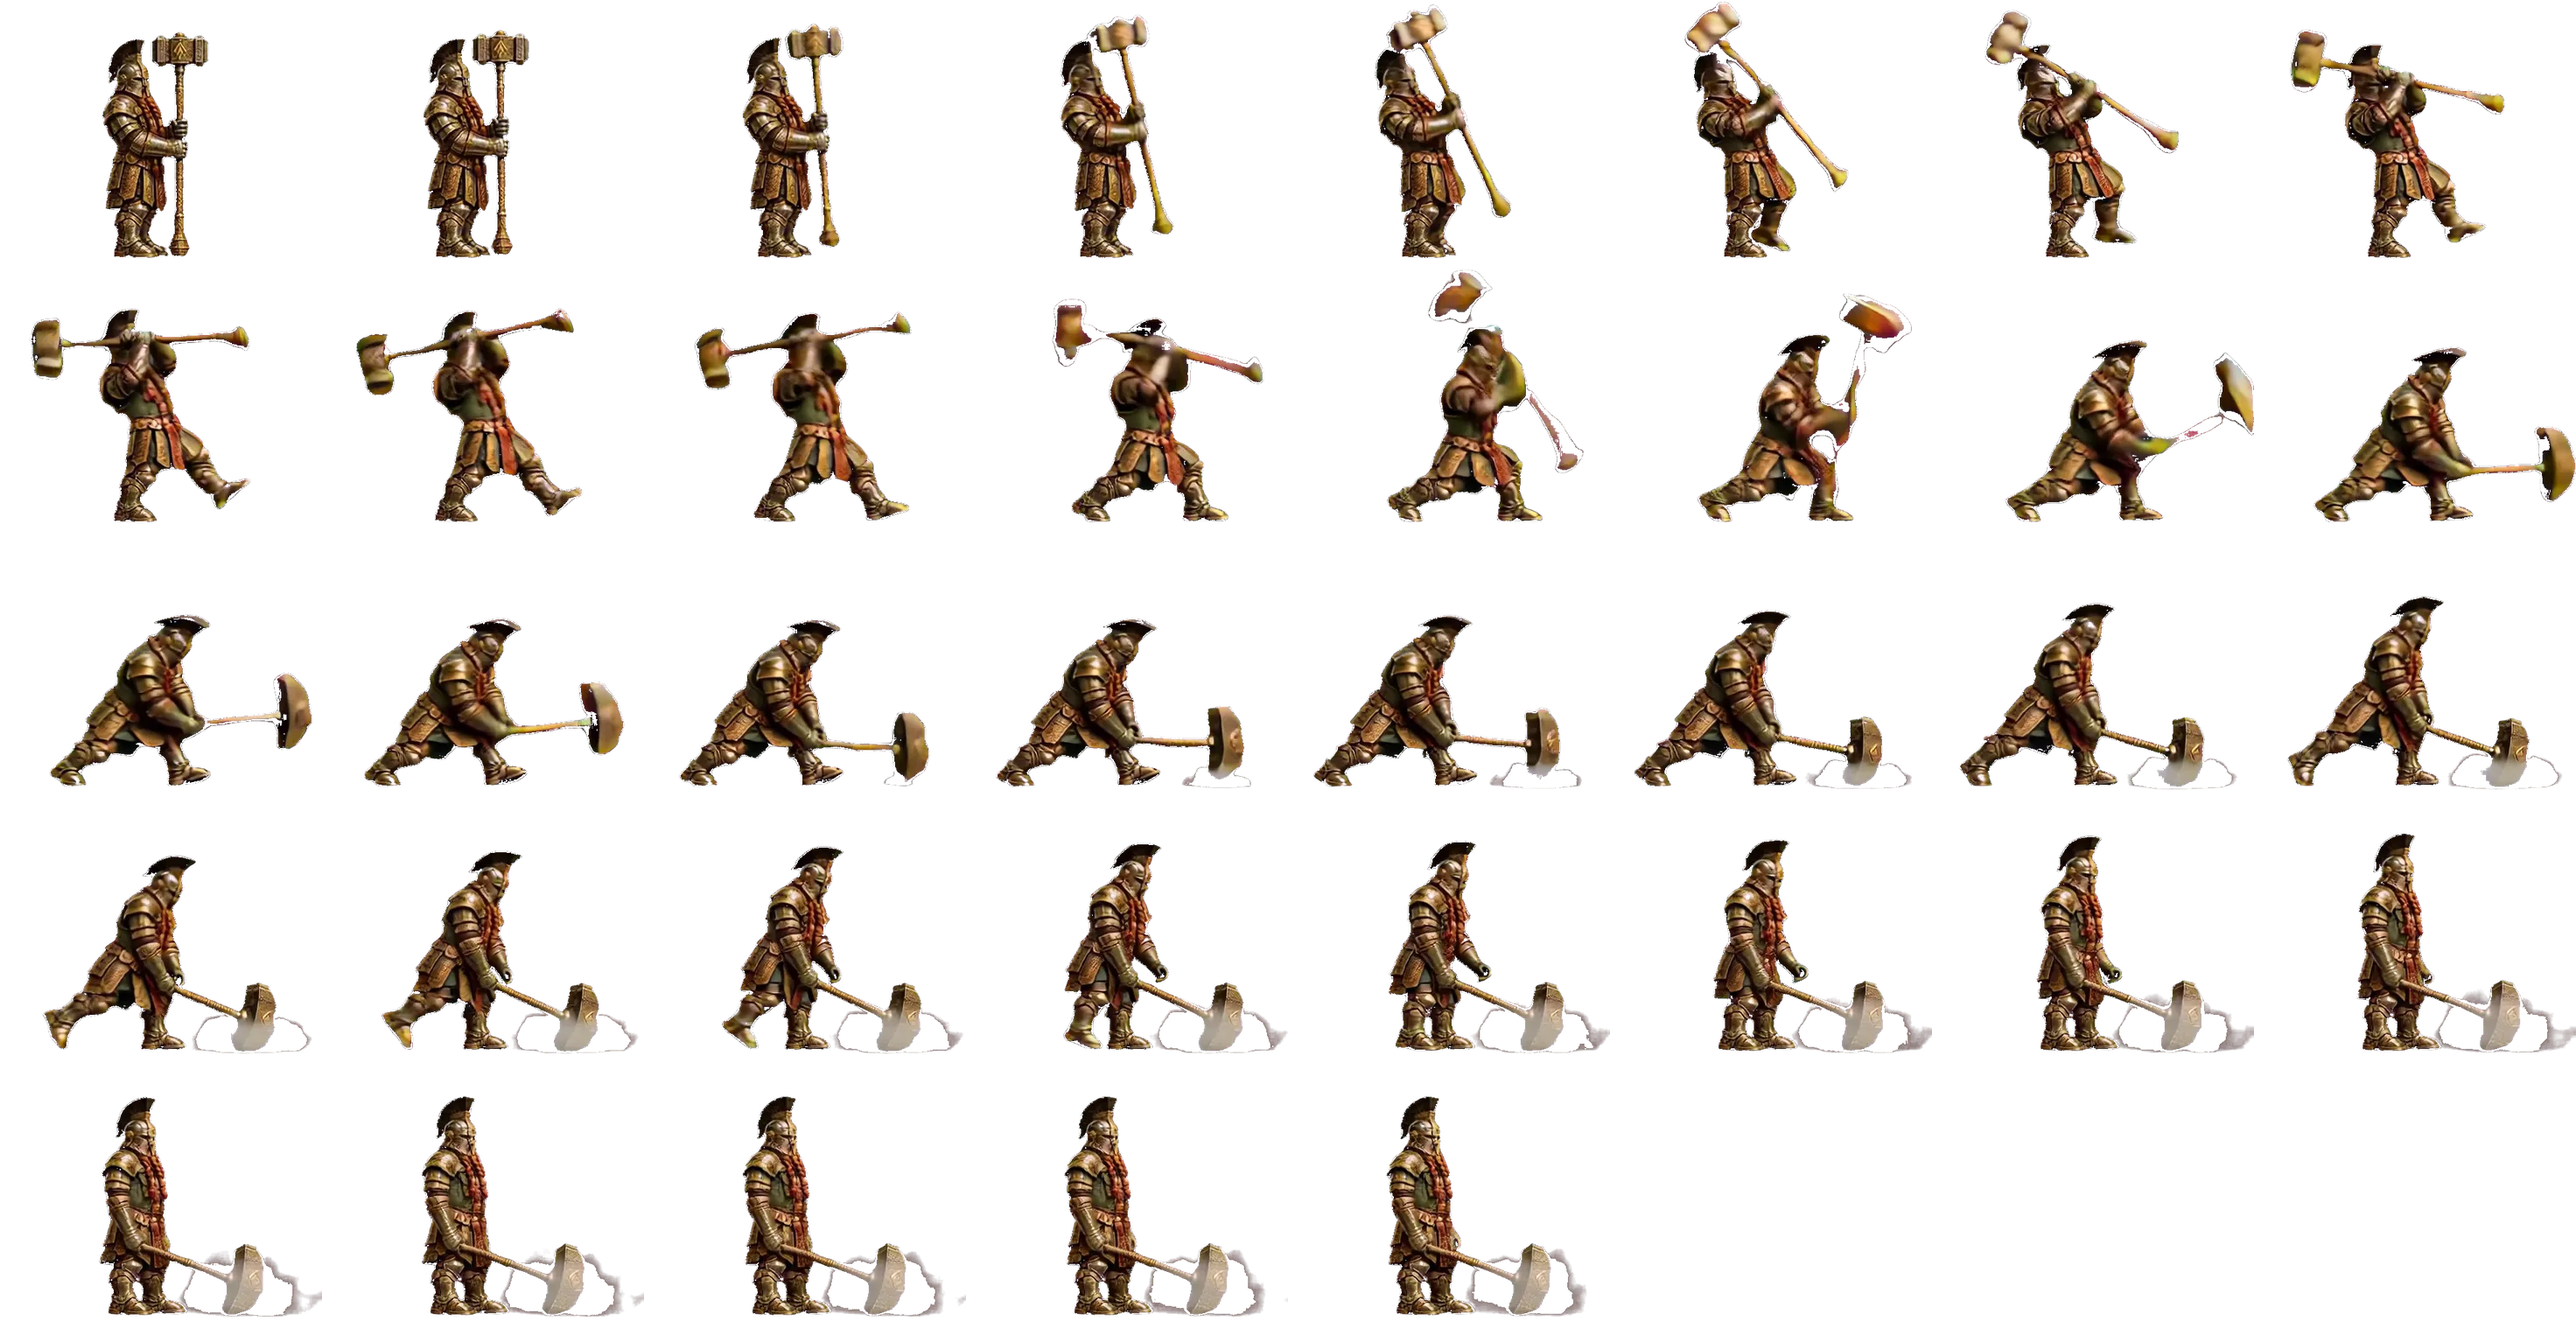
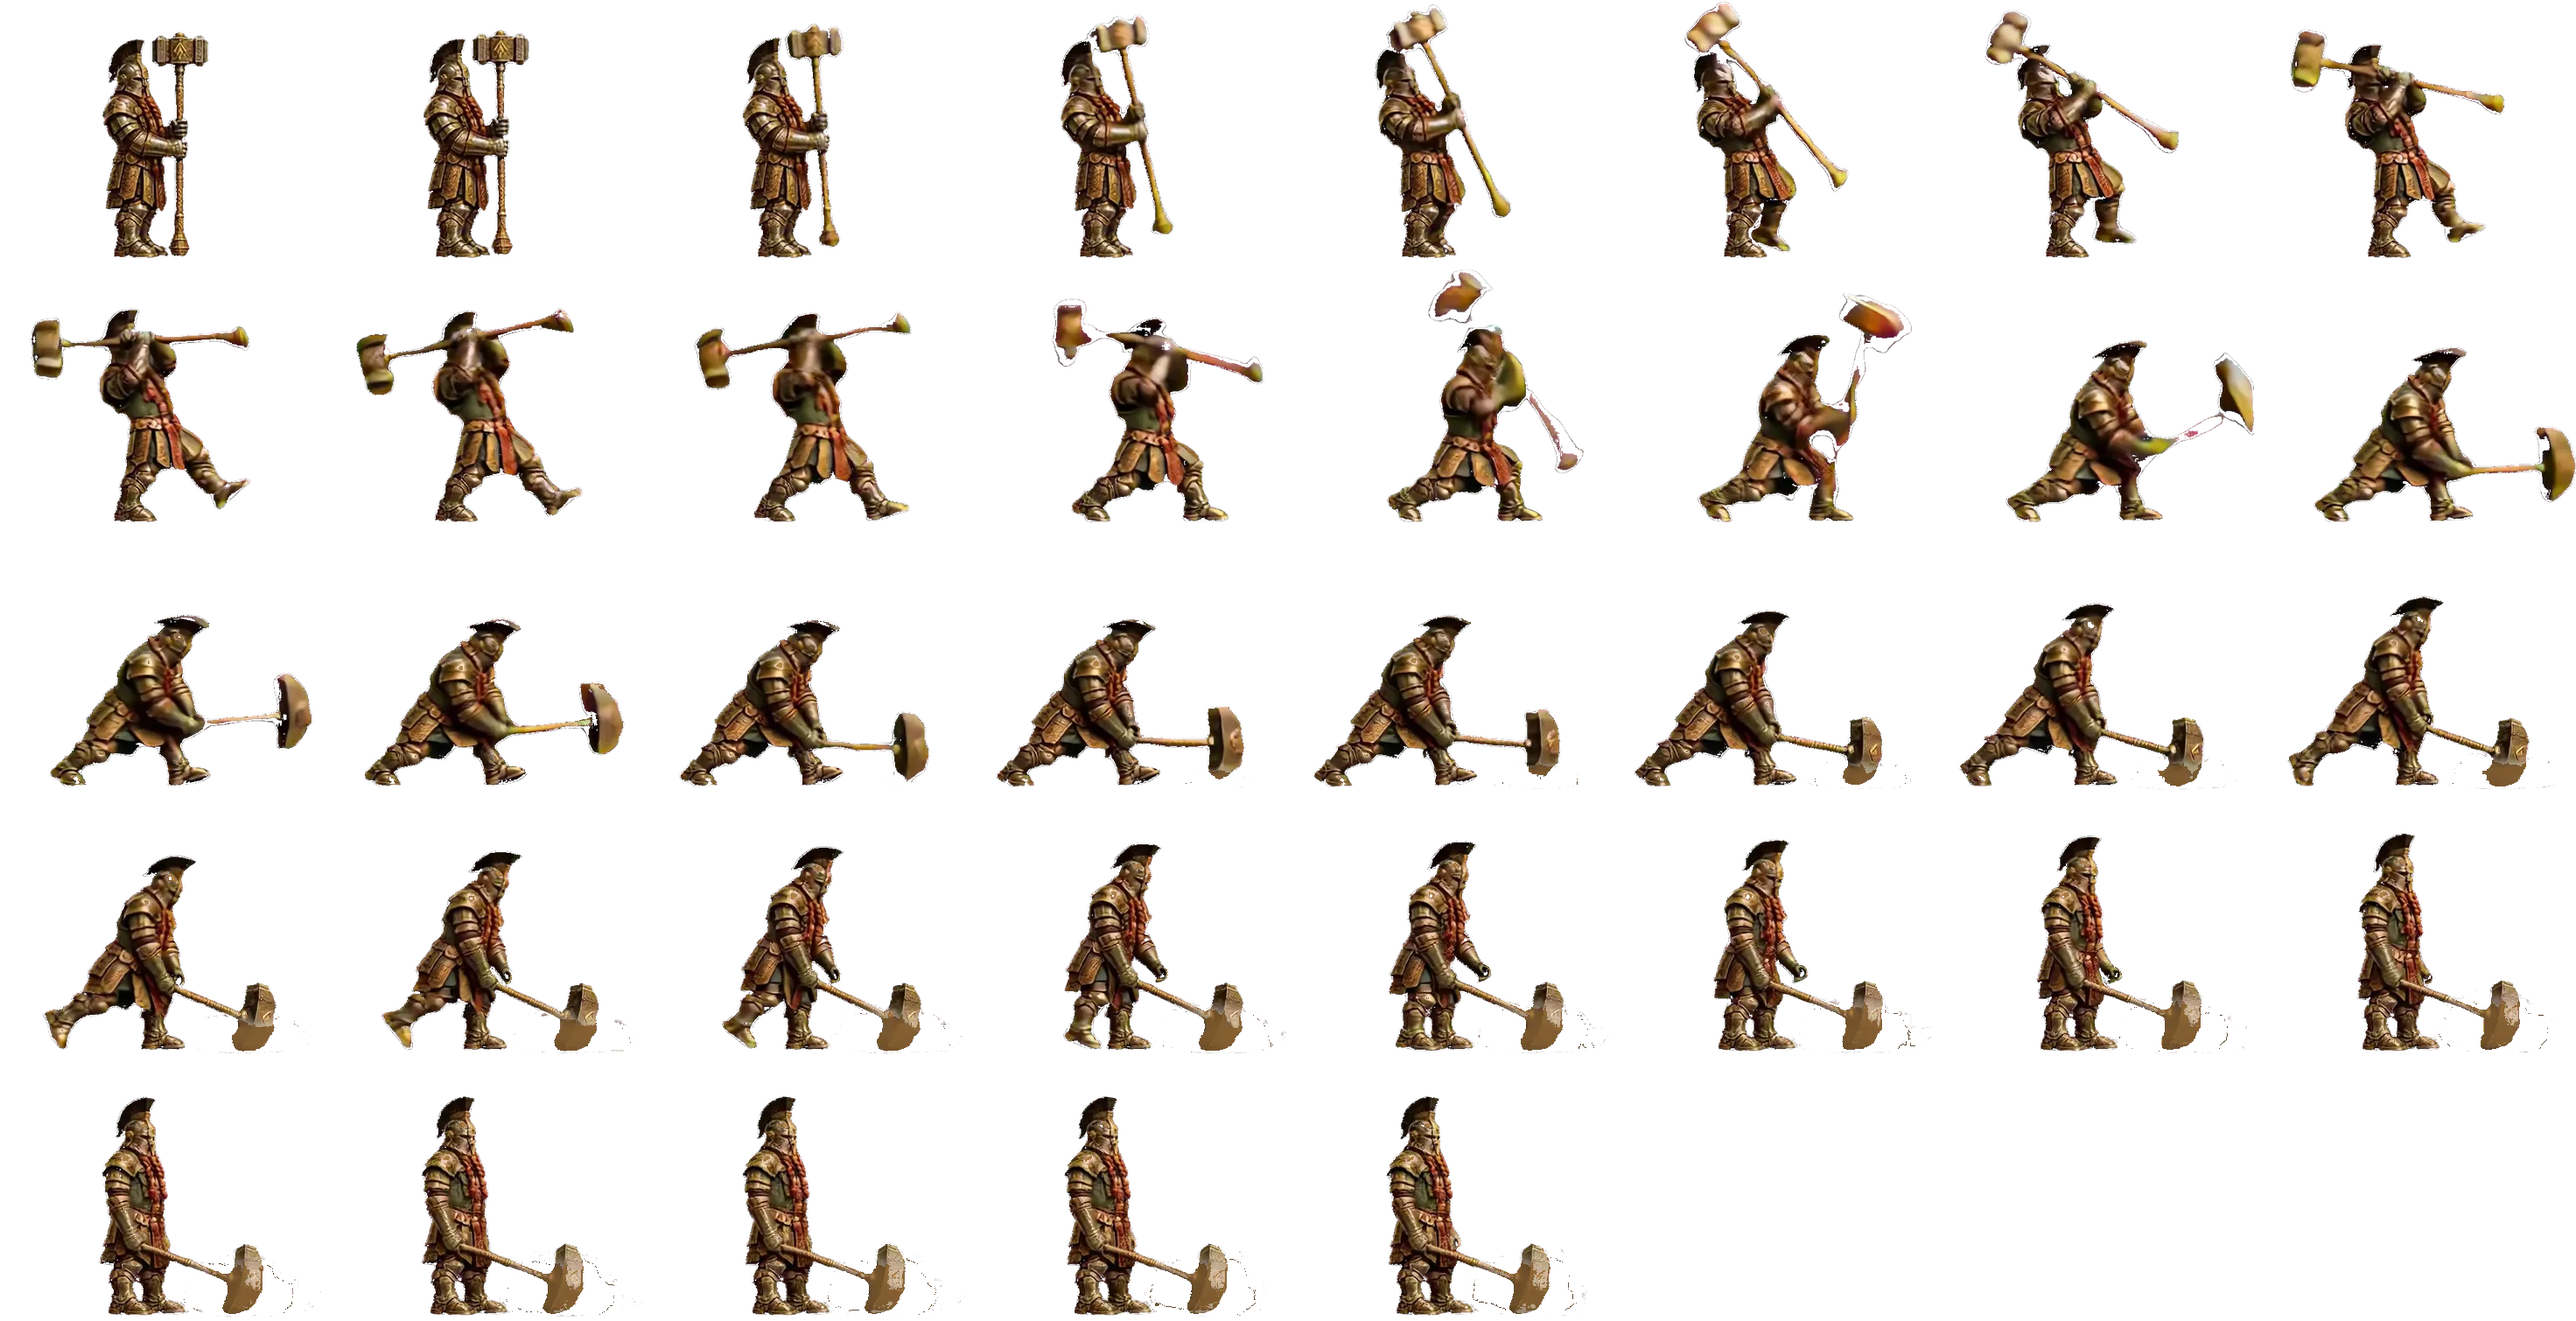
Hammer Guard attack: white glare on the hammer tinted to bronze, dust ring removed (local post-processing, 0 CU)

diff --git a/src/i18n/en/changelog.ts b/src/i18n/en/changelog.ts
@@ -4,6 +4,7 @@ import { register } from '../translate';
 
 // In preparation
 register({
+  "Gwardia Młota: z ataku zniknął biały błysk na młocie i pył po uderzeniu.": "Hammer Guard: the white glare on the hammer and the dust after the blow are gone from the attack.",
   "Żelazny Klan: trafienia Tana, Matki Run, Kreta z Brązu, Niedźwiedzia w Zbroi, Wartownika, Pogromcy Olbrzymów, Gwardii Młota i Kowala Bitewnego to teraz płynne odchylenie od ciosu z przodu i powrót do postawy (bez drgającej, migoczącej sylwetki); wolniejsza śmierć Tarczownika i trafienie Skarbnika, szybsza śmierć Kowala.": "Iron Clan: the hits of Ironbeard the Thane, the Rune Matron, the Bronze Mole, the Armoured Bear, the Bronze Sentinel, the Giant Slayer, the Hammer Guard and the Battle Smith are now a smooth lean back from a blow in front and a return to the stance (no shaking, flickering figure); slower Dwarven Shieldbearer death and Skarbnik hit, faster Battle Smith death.",
   "Kryształowe Drzewo stoi na mapie tylko w celu „Kryształy do Drzewa”. W Punktach kontrolnych, Bossie, Artefakcie, Przetrwaniu, Podboju i Relikcie jego pole jest zwykłym terenem, a w Kontroli, Bossie i Artefakcie punkt środkowy, legowisko Bossa i Artefakt stoją dokładnie w środku mapy (wcześniej obok Drzewa, więc na mapie były dwa „środki”).": "The Crystal Tree stands on the map only in the goal “Crystals to the Tree”. In Control Points, Boss, Artifact, Survival, Conquest and Relic its hex is ordinary ground, and in Control, Boss and Artifact the middle point, the Boss's lair and the Artifact stand exactly in the middle of the map (before, next to the Tree, so the map had two “middles”).",
   "Ikony zdolności Dzikiego Stada, Żelaznego Klanu i Bractwa Przypływu są teraz malowane i kolorowe, w stylu ikon Przymierza i Hordy (42 nowe ikony zamiast jednokolorowych symboli).": "The ability icons of the Wild Herd, the Iron Clan and the Tide Brotherhood are now painted and colourful, in the style of the Covenant and Horde icons (42 new icons instead of single-colour symbols).",

diff --git a/scripts/assets/clans_dust_fix.py b/scripts/assets/clans_dust_fix.py
@@ -1,0 +1,37 @@
+"""Hammer Guard attack: the clip ends with a white glare on the hammer head and a grey dust ring; tint the glare to bronze and drop the dust.
+
+Usage: python3 scripts/assets/clans_dust_fix.py <sheet.webp in> <anim.json> <out.webp> [first frame=16]
+Only pixels that are bright and nearly colourless change: the bronze armour is saturated and stays as it is.
+"""
+import colorsys
+import json
+import sys
+
+from PIL import Image
+
+src, meta, out = sys.argv[1:4]
+first = int(sys.argv[4]) if len(sys.argv) > 4 else 16
+m = json.load(open(meta))
+fw, fh = m['frame']
+cols = m['cols']
+n = m['clips']['atak']
+im = Image.open(src).convert('RGBA')
+px = im.load()
+BRONZE = (0.09, 0.62)  # hue, saturation of the hammer head
+for i in range(first, n):
+    x0, y0 = (i % cols) * fw, (i // cols) * fh
+    for y in range(y0, y0 + fh):
+        for x in range(x0, x0 + fw):
+            r, g, b, a = px[x, y]
+            if a == 0:
+                continue
+            h, s, v = colorsys.rgb_to_hsv(r / 255, g / 255, b / 255)
+            if s < 0.22 and v > 0.45:
+                if a < 235:  # dust: translucent grey
+                    px[x, y] = (r, g, b, 0)
+                else:  # glare on the hammer: bronze of the same lightness, a bit darker
+                    rr, gg, bb = colorsys.hsv_to_rgb(BRONZE[0], BRONZE[1], v * 0.72)
+                    px[x, y] = (int(rr * 255), int(gg * 255), int(bb * 255), a)
+            elif s < 0.22 and a < 200 and v > 0.25:  # thin grey smoke edge
+                px[x, y] = (r, g, b, 0)
+im.save(out, 'WEBP', quality=80, method=6)

diff --git a/CHANGELOG.md b/CHANGELOG.md
@@ -6,6 +6,7 @@ Każdy wpis to jeden commit, a skrót commita stoi w nawiasie na końcu wpisu (c
 
 ## W przygotowaniu
 
+- Gwardia Młota: z ataku zniknął biały błysk na młocie i pył po uderzeniu.
 - Żelazny Klan: trafienia Tana, Matki Run, Kreta z Brązu, Niedźwiedzia w Zbroi, Wartownika, Pogromcy Olbrzymów, Gwardii Młota i Kowala Bitewnego to teraz płynne odchylenie od ciosu z przodu i powrót do postawy (bez drgającej, migoczącej sylwetki); wolniejsza śmierć Tarczownika i trafienie Skarbnika, szybsza śmierć Kowala.
 - Kryształowe Drzewo stoi na mapie tylko w celu „Kryształy do Drzewa”. W Punktach kontrolnych, Bossie, Artefakcie, Przetrwaniu, Podboju i Relikcie jego pole jest zwykłym terenem, a w Kontroli, Bossie i Artefakcie punkt środkowy, legowisko Bossa i Artefakt stoją dokładnie w środku mapy (wcześniej obok Drzewa, więc na mapie były dwa „środki”).
 - Ikony zdolności Dzikiego Stada, Żelaznego Klanu i Bractwa Przypływu są teraz malowane i kolorowe, w stylu ikon Przymierza i Hordy (42 nowe ikony zamiast jednokolorowych symboli).
